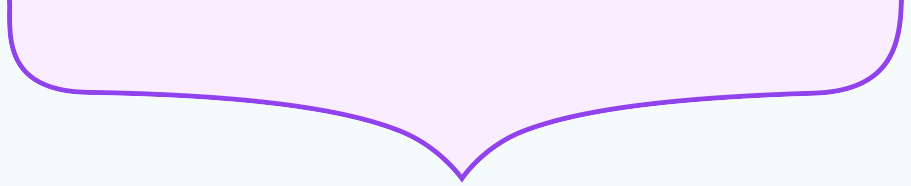
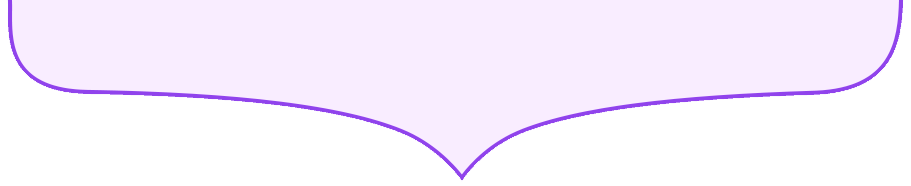
.

diff --git a/shapki/css/style.css b/shapki/css/style.css
@@ -839,6 +839,8 @@ p span{
 .season-img-wrapper{
     margin-left: -5px;
     position: relative;
+    overflow: hidden;
+    height: 186px;
 }
 
 .square{
